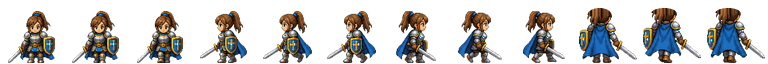
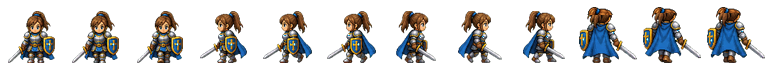
fix(hero): graft the north head from her own NE cell -- the deficit was CONTENT, not height
Owner, after I reported this fixed: "the north facing animation still has the head
cutoff". He was right and my previous fix (1138389) was wrong in a way that measured
correct, which is the part worth recording.

WHAT I GOT WRONG. I scoped the source damage as a missing "crown" and capped the cut
with a synthetic superellipse dome coloured from the cut row. The sheet then MEASURED
fixed -- frames 9/10/11 went top=15/13/13 -> top=8 -- and I closed the item on that
number. But source row 4 is missing the top 8 rows of a ~26 px head: the whole skull
cap, the hairline, the blue hair tie and the PONYTAIL. A 24 px-wide dome of
column-constant colour restores the silhouette HEIGHT and is still a smooth
featureless bowl. From behind, the ponytail is this character's most identifying
feature; without it the back view does not read as a head at all. It measured fixed
and still looked decapitated because the deficit was CONTENT, not height.

Two hypotheses were also refuted with live evidence, so they need not be revisited:
  * stale asset -- public/, dist/ and the installed .app all carry the same sheet
    (hash-verified against the bundle container after a full rebuild);
  * a render-side 48 px clip -- measured on the live dungeon scene, the cape's blue
    mass renders at 3.08 device px per sheet px and hair-top-to-sole at ~3.0, against
    a declared 64 * 1.0125 * 3 = 3.0375. A 48 px framing would render at 2.28. The
[…]

Changed region(s): [[0.8438, 0.0938, 0.9688, 0.2188], [0.75, 0.0938, 0.8125, 0.25]]

diff --git a/scripts/build_hero_g3_walk.py b/scripts/build_hero_g3_walk.py
@@ -76,21 +76,41 @@ DIR_ROW = {0: 0, 1: 2, 2: 6, 3: 4}
 # the damage. The act1-hifi surfaces (town.html, runtime.html) still map up -> row 3, so towns are
 # unaffected and always were; only the tile runtime (overworld + every dungeon) shows it.
 #
-# WHAT THIS DOES, AND WHAT IT DELIBERATELY DOES NOT. It rebuilds the missing crown as a superellipse
-# cap over the cut, coloured from the surviving top row of the SAME COLUMN. Column-constant colour
-# is not laziness: this sheet draws hair as vertical strands, and it is also the only donor that
-# cannot contaminate the crown -- an earlier attempt that mirrored the band below the cut dragged
-# the gold pauldron trim up into her hair. The canonical source PNG is NOT rewritten: it is the
-# owner's locked asset (docs/CANONICAL-ASSETS.md) and the repair belongs to the derived sheet,
-# where it is reviewable, reversible and re-runnable. Nothing below the cut is touched, so the
-# soles -- which dq-tiles.js measures at runtime for collision -- are bit-identical.
-NORTH_CROWN_TOP = 4      # the row the rebuilt crown reaches; NW/NE crown at y=5, ponytail tip at 3
-NORTH_CROWN_EXP = 2.0    # superellipse exponent: 2.0 is a true ellipse, higher is boxier
-NORTH_CROWN_LIFT = 0.10  # the crown catches the light: +10% luminance at the very top
-_SS = 4                  # supersamples per axis for the cap's antialiased edge
+# WHAT IS ACTUALLY MISSING, MEASURED. Not "a crown" -- the top EIGHT rows of a ~26 px head. Its
+# complete neighbour NE (row 5) reaches y=3 and by y=11 -- the row where N's cut begins -- it has
+# already drawn the whole skull cap, the hairline, the blue hair tie and the base of the ponytail.
+# All of that is absent from row 4. The ponytail is this character's most identifying silhouette,
+# and from BEHIND it is the most prominent thing she has; a back view without it does not read as
+# a head at all.
+#
+# WHY THE FIRST REPAIR DID NOT HOLD (2026-08-05, second report: "the north facing animation still
+# has the head cutoff"). It capped the cut with a synthetic superellipse coloured from the cut row
+# of the same column. That restored the silhouette HEIGHT -- verified on device, the sprite draws
+# the full frame unclipped -- but a 24 px-wide dome of column-constant colour is a smooth featureless
+# bowl: no hairline, no rim, no tie, no ponytail. It measured fixed and still looked decapitated,
+# because the deficit was CONTENT, not height. Do not reach for a procedural cap again.
+#
+# WHAT THIS DOES. It grafts the missing rows from the character's OWN adjacent direction: NE
+# (row 5), same pose column, so the walk phase matches. That donor is legitimate because it is the
+# same head at the same scale in the same lighting -- at y=11 the two silhouettes measure 24 px and
+# 27 px wide -- and because the top of a skull is very nearly invariant under 45 deg of yaw. The
+# donor is shifted so the two head centres line up at the cut row (dx = -2 on all three poses) and
+# is composited ONLY into pixels the N cell leaves transparent, so nothing surviving is overwritten
+# and the seam falls between two rows of the same strand pattern. The ponytail lands on her left,
+# which is where a back view puts the ponytail that the S row draws on her right.
+#
+# The canonical source PNG is NOT rewritten: it is the owner's locked asset
+# (docs/CANONICAL-ASSETS.md) and the repair belongs to the derived sheet, where it is reviewable,
+# reversible and re-runnable. Nothing at or below the cut row is touched, so the soles -- which
+# dq-tiles.js measures at runtime for collision -- are bit-identical.
+#
+# THIS IS A STOPGAP, NOT A RESTORATION. It is a good graft, but it is still one direction's head on
+# another direction's shoulders. The durable fix is to regenerate row 4 of the canonical sheet with
+# the head intact; when that lands, the guard below stops firing and this code goes quiet on its own.
+NORTH_DONOR_ROW = 5      # NE, the complete neighbour on the 8-way wheel; same pose column
 
 
-def repair_north_crown(cell: Image.Image) -> Image.Image:
+def repair_north_crown(cell: Image.Image, donor: Image.Image) -> Image.Image:
     """Rebuild the clipped top of the head on one N-facing 64x64 cell. See the note above."""
     px = cell.load()
     W, H = cell.size
@@ -101,39 +121,26 @@ def repair_north_crown(cell: Image.Image) -> Image.Image:
     else:
         raise SystemExit("north cell is empty")
     x0, x1 = min(xs), max(xs)
-    if y_top <= NORTH_CROWN_TOP:
-        return cell                                    # already whole: nothing to rebuild
     # A silhouette's topmost row is a couple of soft pixels; a CROP is a long solid run. Only the
-    # run's two end pixels are allowed to be soft, and it has to be at least 12 px wide.
+    # run's two end pixels are allowed to be soft, and it has to be at least 12 px wide. If the
+    # source is ever regenerated with the head intact this stops matching and the graft is skipped.
     if (len(xs) != x1 - x0 + 1 or len(xs) < 12
             or any(px[x, y_top][3] < 250 for x in xs[1:-1])):
-        raise SystemExit(
-            f"north cell's top row (y={y_top}) is not the flat opaque cut this repairs -- "
-            "the source art changed; re-inspect before trusting this"
-        )
-    cx = (x0 + x1) / 2.0
-    rx = (x1 - x0) / 2.0 + 0.5
-    ry = float(y_top - NORTH_CROWN_TOP)
-    for y in range(NORTH_CROWN_TOP - 1, y_top):
-        for x in range(max(0, x0 - 2), min(W, x1 + 3)):
-            cov = 0
-            for sy in range(_SS):
-                for sx in range(_SS):
-                    u = abs(x + (sx + 0.5) / _SS - cx) / rx
-                    v = abs(y + (sy + 0.5) / _SS - y_top) / ry
-                    if u ** NORTH_CROWN_EXP + v ** NORTH_CROWN_EXP <= 1.0:
-                        cov += 1
-            if not cov:
-                continue
-            alpha = int(round(255 * cov / (_SS * _SS)))
-            if px[x, y][3] >= alpha:
-                continue
-            r, g, b, _ = px[min(max(x, x0), x1), y_top]
-            gain = 1.0 + NORTH_CROWN_LIFT * ((y_top - y) / ry)
-            px[x, y] = (
-                min(255, round(r * gain)), min(255, round(g * gain)), min(255, round(b * gain)),
-                alpha,
-            )
+        return cell                                    # already whole: nothing to rebuild
+    dpx = donor.load()
+    d_xs = [x for x in range(W) if dpx[x, y_top][3] > 8]
+    if not d_xs:
+        raise SystemExit(f"donor row has nothing at the cut row y={y_top} -- cannot align the graft")
+    dx = round((x0 + x1) / 2.0 - (min(d_xs) + max(d_xs)) / 2.0)
+    filled = 0
+    for y in range(y_top):                             # strictly ABOVE the cut: soles untouched
+        for x in range(W):
+            sx = x - dx
+            if 0 <= sx < W and dpx[sx, y][3] > 8 and px[x, y][3] <= 8:
+                px[x, y] = dpx[sx, y]
+                filled += 1
+    if not filled:
+        raise SystemExit(f"north graft filled nothing above y={y_top} -- the donor row moved")
     return cell
 
 
@@ -154,7 +161,9 @@ def main() -> int:
         for pose in range(3):
             cell = g3.crop((pose * 64, DIR_ROW[d] * 64, pose * 64 + 64, DIR_ROW[d] * 64 + 64))
             if d == 3:
-                cell = repair_north_crown(cell)
+                donor = g3.crop((pose * 64, NORTH_DONOR_ROW * 64,
+                                 pose * 64 + 64, NORTH_DONOR_ROW * 64 + 64))
+                cell = repair_north_crown(cell, donor)
             small = cell if (FW, FH) == cell.size else cell.resize((FW, FH), Image.NEAREST)
             bb = small.getbbox()
             if not bb:

diff --git a/scripts/runtime_baseline.py b/scripts/runtime_baseline.py
@@ -109,7 +109,7 @@ ACT1_OVERLAY_FILES = {
     # diagonal" and is correct); that is what exposed it. build_hero_g3_walk.py now rebuilds the
     # crown when it cuts the N frames. Frames 0-8 are BIT-IDENTICAL and every frame's sole row is
     # untouched, so the runtime sole measurement that drives dungeon collision does not move.
[2 lines of base64/hex data omitted]
     "act1-world-map.js": (
[1 lines of base64/hex data omitted]
 }
